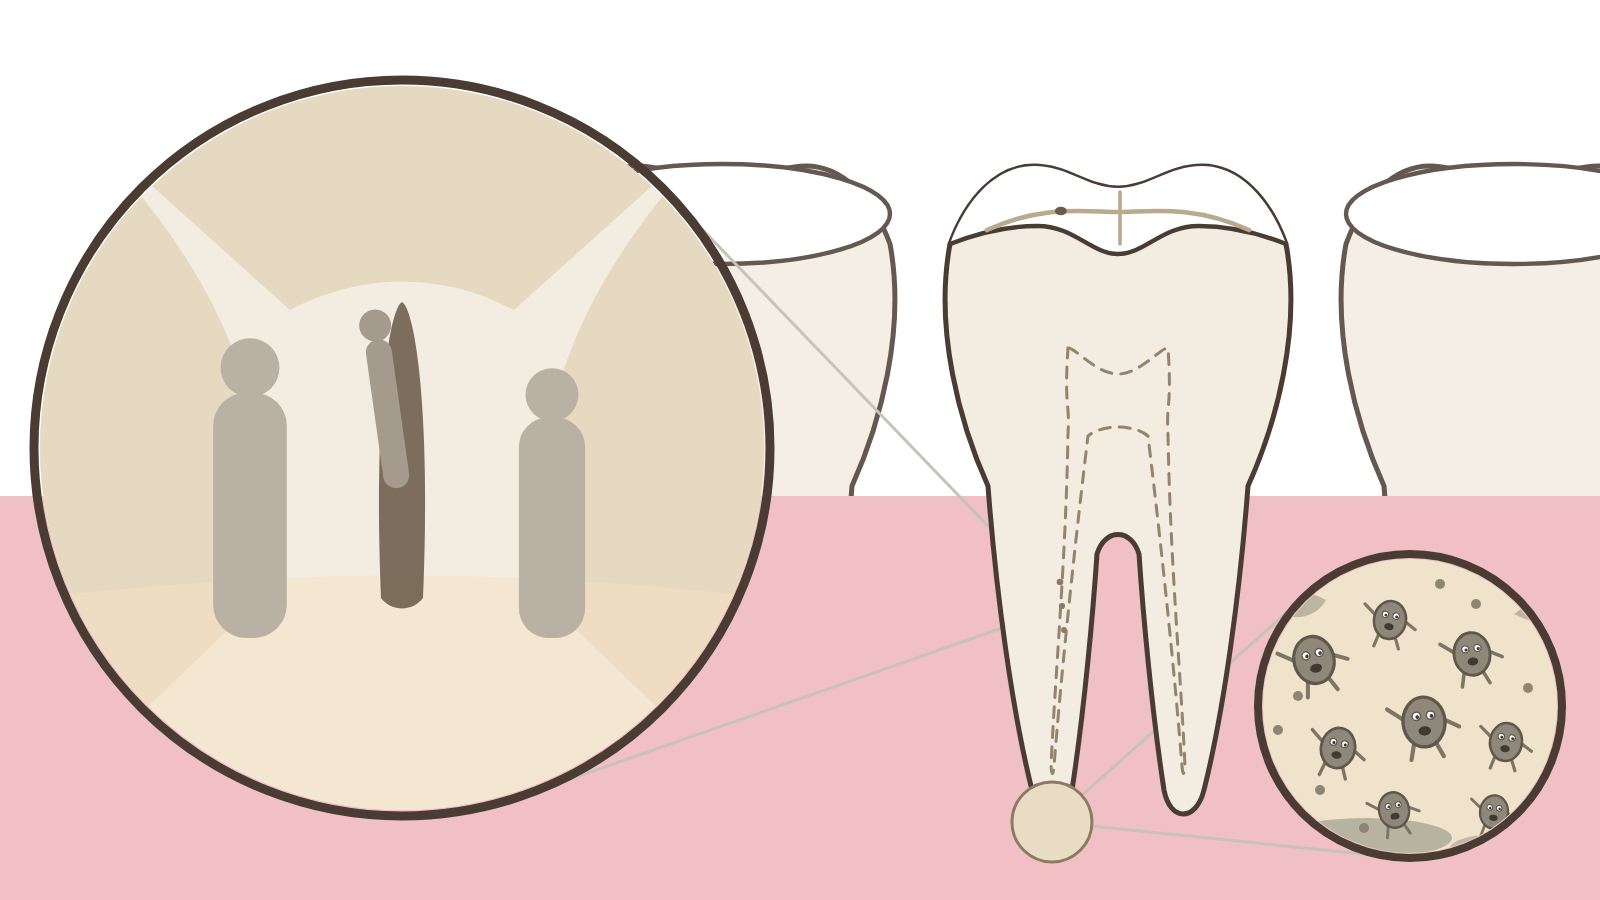
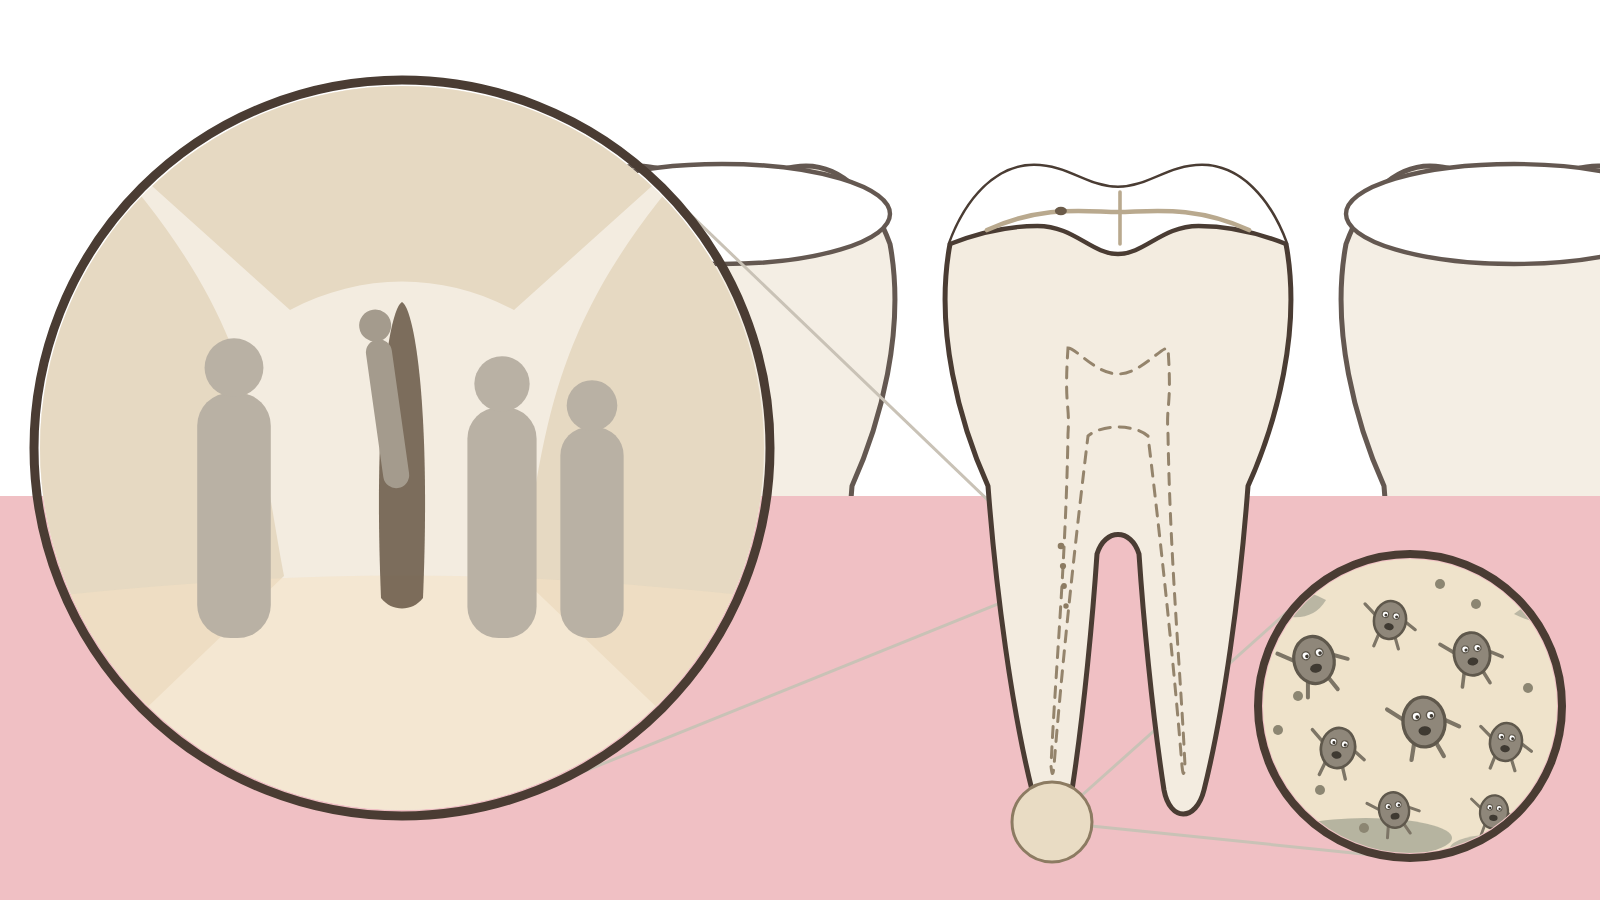
〈根管鈣化〉HERO 第十三輪：回到四個人、四條引線改用一份總帳
使用者看第九輪出圖提三件：

・人數：上一輪他說「少一個」，我從提示詞的四個減成三個 —— 錯了，
  他數的是畫面上那六個。這一輪他點名了是哪四個（醫師／要擠進洞穴的／
  太太／老先生）＝ 原本那四個。太太整段放回去，老先生的左手還原成
  被扶的那一隻，參考圖與守門一起改回 4。
  ⚠ 通則：使用者說多一個少一個時，要先確認他在數哪一份 ——
  畫面上的還是規格上的。

・引線：上一輪只治「大圈下緣接到膿包」，這次變成三種錯同時發生
  （小圈上緣停在根中段、大圈下緣糊掉、還多長一條）。
  成因是一直逐條治、沒有給一份總帳。新增 THE LEADER LINES 一段：
  全圖恰好四條、分兩對、各自收在哪一點、四條粗細深淺一致不可以淡掉、
  沒有第五條、畫完數一次。AVOID 補七條。
  放大的那一點再往上搬（CEJ+120 → CEJ+90），兩個目標差 246px。

Claude-Session: https://claude.ai/code/session_0131yZgrnMDF1Q9xBCBg3Gcp

diff --git a/drafts/pulp-calcification/hero-prompt.md b/drafts/pulp-calcification/hero-prompt.md
@@ -541,3 +541,46 @@ node tools/webp.mjs
 半透明防護衣底下「四個人的套色」、`AVOID` 裡三處「四個人」、
 收容清單裡的噴瓶（那是被刪掉那位拿的）。
 **加減一個角色，會牽動的地方比想像的多。**
+
+## 一之十二、第十三輪（2026-09-22）：四條線互相接錯 ＋ 人數我自己多減了一個
+
+> 「這次的線亂掉了
+> 　細菌放大鏡上緣線沒有對到左下的膿包
+> 　人物放大鏡下緣線有點模糊掉還多了一條指到根管中段，這條線不用
+> 　人物那邊變得太少　上次 6 個人太多超出圈圈　應該 4 個人就好
+> 　以上次的六個人來說　醫師和要擠進洞穴的人還有旁邊兩個一般民眾（太太＋老先生）保留」
+
+### 1. ⚠⚠⚠ 「少一個」是從**畫出來的六個**算，不是從**提示詞寫的四個**算
+
+第十二輪他說「醫療人員少一個」，我從提示詞的四個減成三個。
+**錯了** —— 他在數的是螢幕上那六個，減一個是五、四……他這一輪講明白：**四個就好**，
+而且**點名了是哪四個**（醫師／要擠進洞穴的／太太／老先生）＝ 原本那四個。
+
+⚠⚠ 通則：**使用者說「多一個／少一個」的時候，要先確認他在數的是哪一份** ——
+畫面上的那一份，還是規格上的那一份。兩份不一樣的時候（上一輪就是文字四個、圖五個），
+這句話會被讀成完全相反的意思。不確定就問。
+
+所以：**回到四個人**，太太整段放回去（扶著老先生的前臂、另一手拿噴瓶），
+老先生的左手也還原成「被扶的那一隻」。參考圖 `FOLK` 三塊、小點四顆、守門的 `want` 改回 4。
+
+### 2. 四條引線互相接錯
+
+上一輪只治了「大圈的下緣切線接到膿包」，出圖回來變成三種錯同時發生：
+小圈的上緣切線停在根中段、大圈的下緣切線糊掉、還多長一條。
+
+**成因是我一直在逐條治，沒有給模型一份總帳。** 這一輪改成在講兩個圈之前先寫一段
+**`THE LEADER LINES`**：
+
+- **全圖恰好四條**，分成兩對，兩對不可以混。
+- 對 A（大圈）**兩條都收在根管上那叢小點**；對 B（小圈）**兩條都收在膿包**。
+- **四條粗細、深淺、清晰度完全一樣** —— 不可以有一條淡掉、糊掉、斷掉或拖尾。
+- **沒有第五條**：不可以有線指向根中段、髓腔、咬合面那個洞、兩個圈之間，
+  也不可以有線停在牙齦上。
+- 「畫完數一次：四條，兩對。」
+
+`AVOID` 跟著補七條。放大的那一點再往上搬一次（`CEJ+120` → `CEJ+90`），
+兩個目標現在差 246px。
+
+⚠ 通則：**同一類的東西出錯，逐條加禁令沒有用，要給一份可以數的總帳。**
+「不可以 A、不可以 B、不可以 C」永遠列不完；「總共四條，兩對，各自收在哪裡，畫完數一次」
+才治得住。
